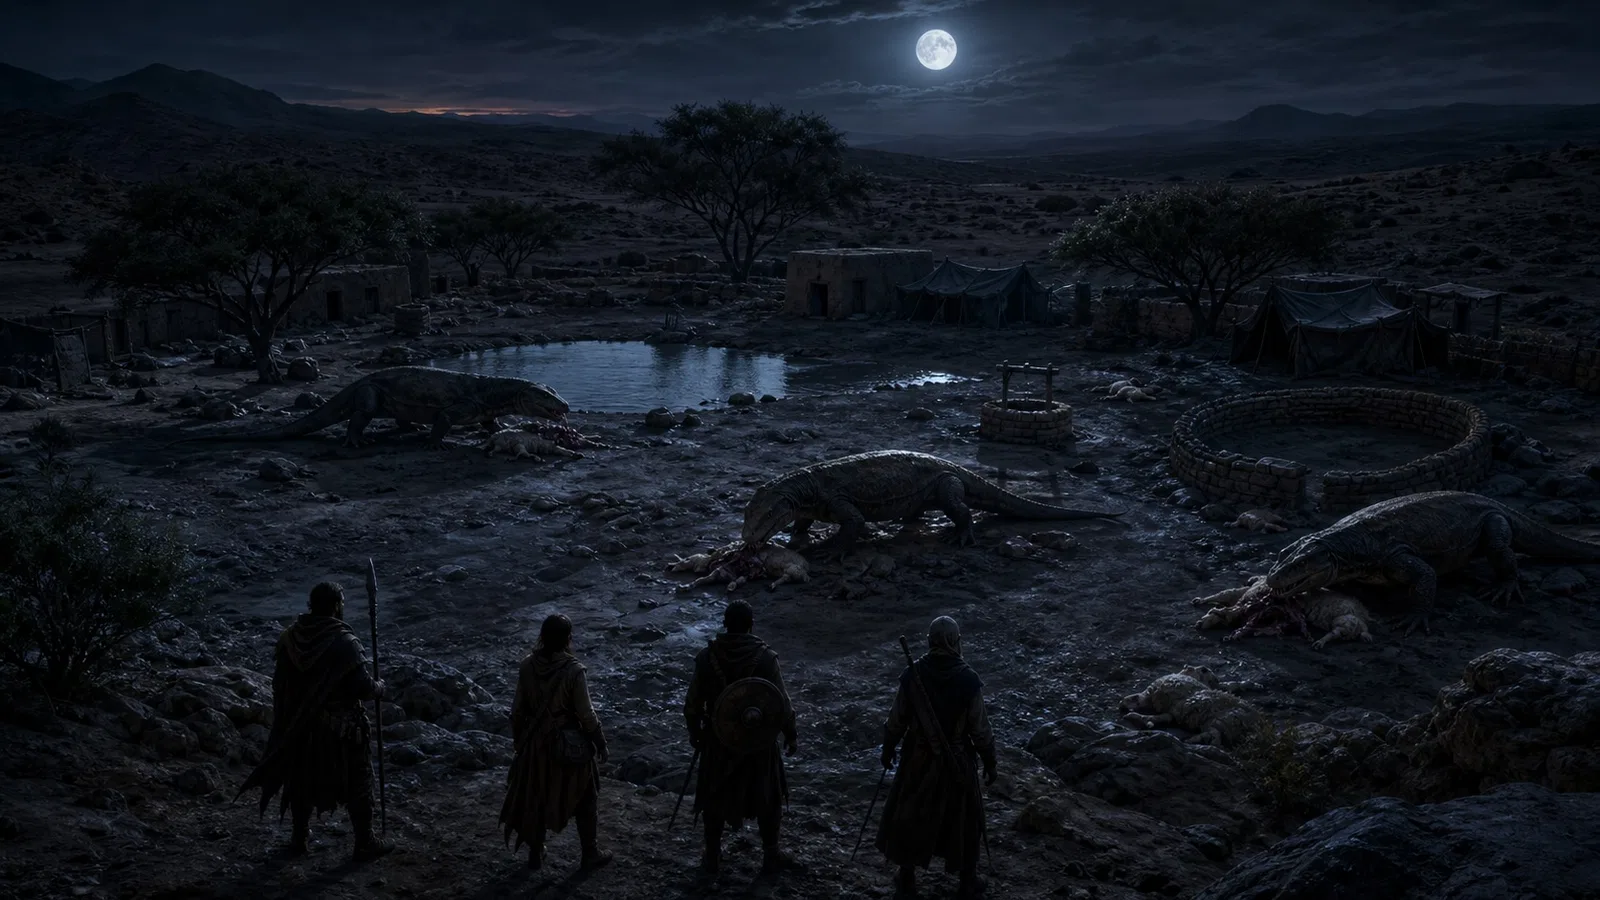
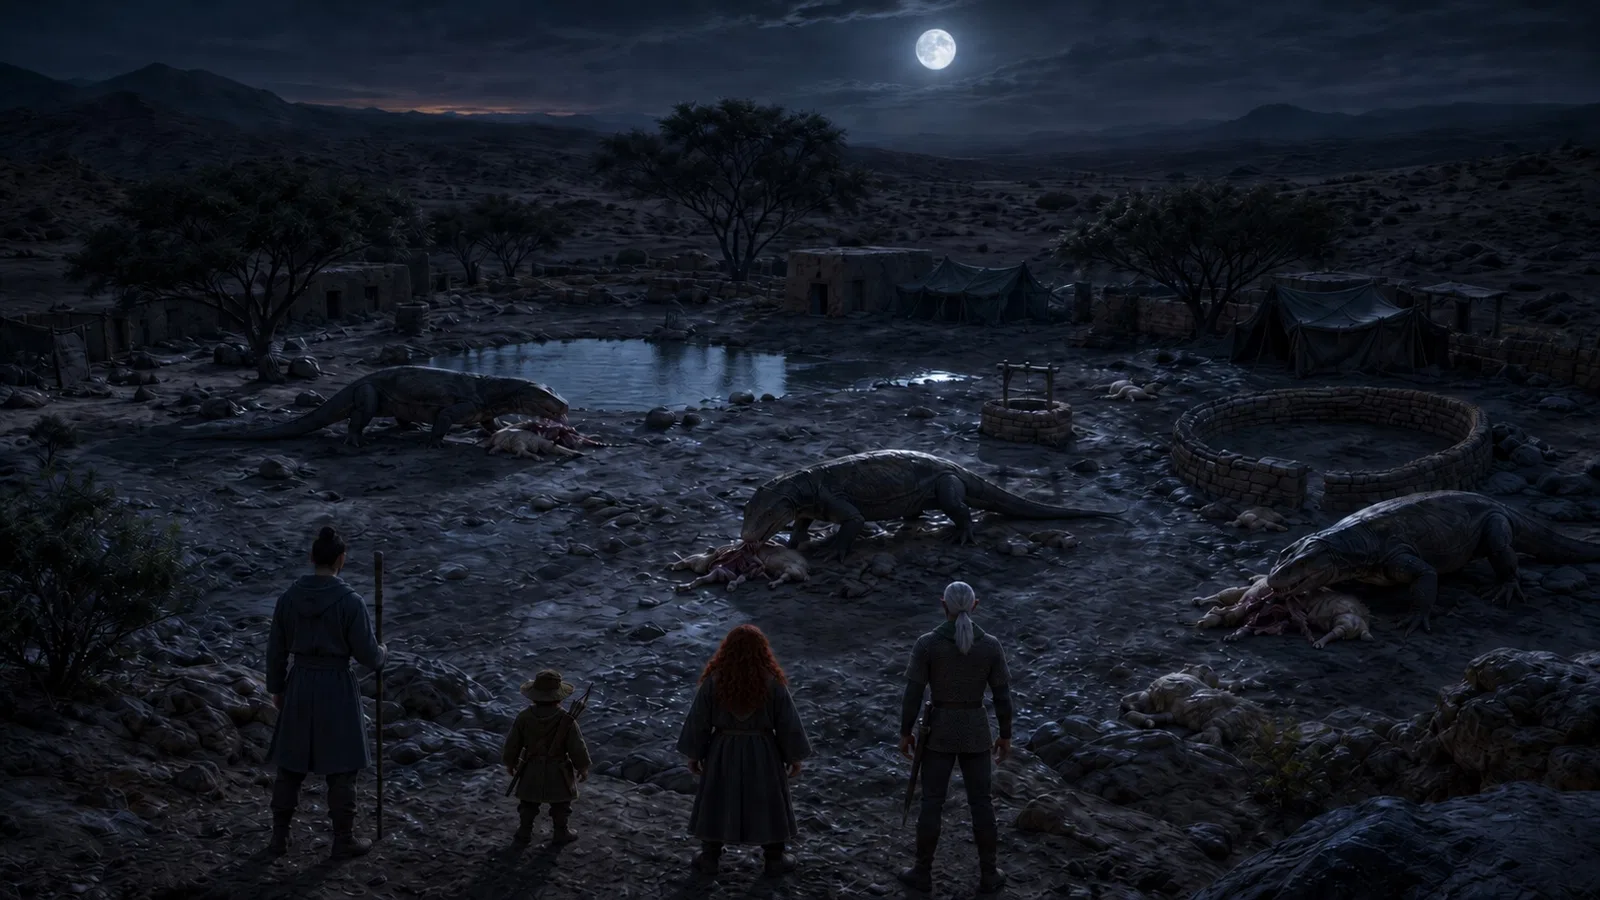
autobuild

diff --git a/docs/campaigns/dragonets/the-shared-vision-of-home.md b/docs/campaigns/dragonets/the-shared-vision-of-home.md
@@ -1,6 +1,6 @@
 ---
 headerVersion: 2023.11.25
-tags: [source]
+tags: [source, status/check/ai]
 campaign: Dragonets
 name: The Shared Vision of Home
 POV: undated
@@ -14,11 +14,7 @@ title: The Shared Vision of Home
 
 **DM:** As you all hug the egg, the patterns on the egg begin to glow, and all of you experience, again, this… it's hard to describe it other than, like, the most sacred experience you've ever had in your lives. Like, this is, like, a very, very powerful, sacred moment.
 
-And as you touch it, the egg… begins to…
-
-**Zeno:** Whoa.
-
-**DM:** —glow. And light up. And these eight points of light start to appear across the egg, as all of you are touching it, holding it, and just feeling this deep, deep sense of being moved by this embrace of each other, but then also the embrace of the egg.
+And as you touch it, the egg begins to glow, and light up. Tthese eight points of light start to appear across the egg, as all of you are touching it, holding it, and just feeling this deep, deep sense of being moved by this embrace of each other, but then also the embrace of the egg.
 
 And as you touch it, and as it lights up, you feel also, in some weird way, that your consciousness is merging together. Like, you're hugging it as kind of four distinct entities, but the longer you hug it, the more that it feels like you're actually just one entity.
 
@@ -81,3 +77,49 @@ And as you now, who were once four dragonets, and then one dragonet, and then th
 And the four of you wake up. And you're lying on the ground next to this dragon egg, or next to this glowing egg.
 
 And all of the lights from the egg, as you wake up from this set of visions, slowly start to fade and darken. And the egg itself goes dark.
+
+## The Awakening
+
+**DM:** And as the egg goes dark, each of you starts to experience something different.
+
+### Little Tony
+
+**DM:** Little Tony? As you're lying there on your back, just however you can, processing whatever the fuck just happened, you start experiencing something, and this has been a day. Your normal shit, and then all of a sudden you can't hear everything, you can hear everything back again, like, what the hell's going on?
+
+You notice as you start to expand your consciousness out, because normally the palm is completely quiet, and it is quiet, and you expand your consciousness down to the wrist and down the arm, and your usual friends that you see along the way, they start talking to you like normal. But you feel, just like you did earlier, that suddenly you feel like you can tune it. You feel like you can talk to any rock that you want.
+
+You feel like any rock, you can tune it and turn this one off, turn that one off. And as you expand outwards, you realize, as you expand outward from beyond the Wanderer and the statue, that you can now talk and engage with every single object that you are scanning across the entire island, as far as you start going and expanding outwards.
+
+And it's ultra-fucking-high resolution, like, any object, I can talk to this one or not. I can listen to this one or not. You've never experienced anything even close to this magnitude. Crystal… perception and resolution.
+
+### Zeno
+
+**DM:** Zeno, as you're lying there and coming to, that perfect note that you heard in your head earlier, you start to hear in your head not just one note, but a chord. But not just a chord, even. It feels somehow like a set of notes combined together, playing something that's so resonant and beautiful, yes, to dragonets. But you realize that you can kind of assemble these notes into any pattern that you want.
+
+And you somehow have this sensation that the notes that you're arranging in your mind, they will be beautiful for the trees. They could be beautiful for the river, for the animals. Even, there feels like, for you, there's some combination of notes in your mind that the wind will love.
+
+And as you're kind of just playing with this, you also notice that each note… You thought that there was a note, but actually that note is made up of even more notes. It's like there are sub-tones within a tone.
+
+And you find that as you're making these compositions in your mind, the sub-tones create new layers and new density and complexity of music that you have never before imagined or thought of before in your mind. And somehow you can arrange it, and somehow you know that the notes and the chords that you're making are fucking sick. Whoever's gonna be listening to this is like, this is the most sacred shit they've ever heard in their lives.
+
+### Heska
+
+**DM:** Heska, as you're lying there and feeling, similarly to everybody else, what the fuck is going on?
+
+You notice in your body and in your being: you're a hunter, you're an acrobat, you've got incredible control over your body and what you can do. And yet somehow now it's almost as though every muscle in your body, you have some kind of precise control over. You are able to take the sinew of a muscle on your finger and activate it and control it with total perfection.
+
+The little strand of muscle on your leg below your knee, your hunting muscles, all of them are activated, again, with a precision and a power that you've never felt before.
+
+And you know how you felt when you killed that and hunted that king crab? How you felt on that day, and that was a perfect day, that was your perfect hunt? This feels like you could go and hunt a thousand of those crabs. This feels like you could find the most hidden, darkest, strongest beast in the ocean, and go hunt that shit. It's a level of power and confidence that you have never felt before.
+
+### Sculpit
+
+**DM:** And Mike, for Sculpit, as you're lying there, you, your whole life, have had this feeling around magic, and a feeling that there's certain ways in which you just couldn't control this. You want to be able to do something, but there's this wild energy that's flowing within you that you can't quite keep a lid on.
+
+But now for you, just like before, you were able to kind of teleport ten, twenty feet, you're feeling now as though all of that wildness is completely tamed. You have complete precision and control over how you want to move it. If you want it to go one foot, ten feet, thirty feet, fifty feet, it all feels completely easy. It all feels novice. Something that would be so simple for you to do.
+
+And so somehow you've been searching for this wildness to finally be tamed, and it is completely a slave to whatever you want.
+
+### The Power Fades
+
+**DM:** And as all of you are experiencing these things in your bodies, in your systems, for maybe a couple of minutes, they disappear. And they're gone.

diff --git a/docs/assets/pc-references/kenzo-early-campaign-reference.md b/docs/assets/pc-references/kenzo-early-campaign-reference.md
@@ -1,0 +1,57 @@
+---
+tags: [meta, status/check/ai]
+title: Kenzo Early Campaign Reference
+---
+# Kenzo — early-campaign character reference
+
+This set uses the portrait approved on September 18, 2026, for Kenzo's early-campaign appearance. Preserve this set separately from later-campaign appearances.
+
+## Reference images
+
+| Close portrait | Full body — front | Full body — rear |
+|---|---|---|
+| ![Kenzo Early Campaign Portrait](/taelgarverse/assets/pc-references/kenzo-early-campaign-portrait.webp) | ![Kenzo Early Campaign Full Body Front](/taelgarverse/assets/pc-references/kenzo-early-campaign-full-body-front.webp) | ![Kenzo Early Campaign Full Body Rear](/taelgarverse/assets/pc-references/kenzo-early-campaign-full-body-rear.webp) |
+
+All three images are **1254 × 1254 PNGs**, with opaque image content extending to every edge and no white side lines or borders.
+
+## Approved visual anchor
+
+- A young adult human man with a subtly thin, gently tapered face, healthy cheek softness, a softly defined jaw and rounded chin, lighter eyebrows, relaxed dark-brown eyes, and a small closed-mouth smile.
+- Clean-shaven, with warm natural skin and realistic skin texture.
+- Long black hair swept back into a high topknot, with a few fine loose strands.
+- A lithe, lean, strong athletic build, with balanced shoulders and understated natural muscle.
+- A plain dark slate-blue woven hooded robe, hood down, over a gray open-neck linen underlayer.
+- Warm mottled brown backdrop, soft portrait lighting, and a realistic photographic style.
+
+The user selected the younger portrait with lighter eyebrows, requested a closer resemblance to the supplied second facial reference, then approved the refinement with a subtly thinner face and a more lithe, strong build. That final approved portrait is the identity anchor for these views.
+
+## Full-body design
+
+The front view extends the selected portrait into a practical robe ending just below the knees, long sleeves, a matching blue cloth sash, plain charcoal trousers, and worn dark-brown leather ankle boots. The sash knot and hanging ends sit at Kenzo's left front waist. They remain mostly hidden from the rear; the down hood rests across the upper back.
+
+The robe length, sash, lower clothing, boots, and rear construction are visual interpretations made to complete the reference set. The rear view follows the generated front view for consistent proportions, clothing, and hair. Both full-body images use a relaxed neutral stance with empty hands so the outfit is visible. This does not imply that Kenzo never carries a staff.
+
+## Early transcript anchors
+
+### Athletic build and light travelling robe
+
+> Kenzo's human, uh, Dunmari, um, dark hair, uh, very, very fit looking, athletic, um, but also wearing just kind of loose traveler's outfits, um, light robe.
+
+Session 6 cleaned transcript, **u1539–u1540**, **01:24:12.568–01:24:26.568**.
+
+### Ordinary eye color
+
+> Yeah, no, they're normally, like, brown eyes, so.
+
+Session 6 cleaned transcript, **u3797**, **03:30:10.650–03:30:12.610**.
+
+This set keeps Kenzo's normal brown eyes. The brilliant blue eyes described later in that session are a distinct changed appearance and are not used here.
+
+## Provenance and verification
+
+Generated with the built-in image_gen tool. The close portrait removes the side strips and extends the approved image into the same square format as the other PC sets. The full-body front extends that approved identity and clothing; the rear uses the completed front and close portrait as references.
+
+The approved source portrait remains in the Taelgar Images project at `output/imagegen/topknot-refined-lithe-strong.png`. The generation prompts, source records, and verification results remain in that project under `generated/kenzo-early-campaign-character-reference-v1/` as `prompts.json`, `files.json`, and `verification.json`.
+
+All project copies match their generated sources by SHA-256. Each image is opaque and square. The outer 16-pixel bands on all four sides of every image were checked and contain zero near-white pixels.
+

diff --git a/docs/people/pcs/dunmar-fellowship/delwath.md b/docs/people/pcs/dunmar-fellowship/delwath.md
@@ -1,6 +1,6 @@
 ---
 headerVersion: 2023.11.25
-tags: [person, status/cleanup/image]
+tags: [person]
 campaignInfo:
 name: Delwath
 born: 1472
@@ -35,7 +35,12 @@ hide_toc: true
 
 
 
-![Delwath Portrait](/taelgarverse/assets/delwath-portrait.webp)
+!!! image taelgar-image taelgar-image--aside inline end taelgar-image--align-right taelgar-image--size-standard " "
+	![Delwath Intro Teahouse Threshold](/taelgarverse/assets/delwath-intro-teahouse-threshold.webp)
+	*Delwath in Karawa as our campaign begins.*
+
+
+
 
 ## Pre-Campaign Events
 

diff --git a/docs/people/pcs/dunmar-fellowship/kenzo.md b/docs/people/pcs/dunmar-fellowship/kenzo.md
@@ -25,8 +25,9 @@ hide_toc: true
 </div>
 
 
-![Kenzo Full](/taelgarverse/assets/kenzo-full.webp)
-
+!!! image taelgar-image taelgar-image--aside inline end taelgar-image--align-right taelgar-image--size-standard " "
+	![Kenzo Intro Desert Traveler](/taelgarverse/assets/kenzo-intro-desert-traveler.webp)
+	*Kenzo approaches Karawa as our campaign begins.*
 ## Pre-Campaign Events
 
 - Mar 11, 1748 DR: Kenzo leaves the Lakan Monastery at Tokra, heading for Karawa in search of answers about his dreams, and the jade fragment he carries.

diff --git a/docs/people/pcs/dunmar-fellowship/riswynn.md b/docs/people/pcs/dunmar-fellowship/riswynn.md
@@ -26,8 +26,9 @@ hide_toc: true
 </div>
 
 
-![Riswynn](/taelgarverse/assets/riswynn.png)
-
+!!! image taelgar-image taelgar-image--aside inline end taelgar-image--align-right taelgar-image--size-standard " "
+	![Riswynn Intro Ikrams Courtyard](/taelgarverse/assets/riswynn-intro-ikrams-courtyard.webp)
+	*Riswynn meets the Dunmar Fellowship at Ikram's.*
 ## Pre-Campaign Events
 - Mar 10, 1748 DR: Riswynn leaves Tharn Todar, heading north for Raven's Hold
 - Mar 24, 1748 DR: Riswynn leaves Askandi, heading for Karawa.

diff --git a/docs/people/pcs/dunmar-fellowship/wellby.md b/docs/people/pcs/dunmar-fellowship/wellby.md
@@ -27,8 +27,9 @@ hide_toc: true
 </div>
 
 
-![Welby Full](/taelgarverse/assets/welby-full.webp)
-
+!!! image taelgar-image taelgar-image--aside inline end taelgar-image--align-right taelgar-image--size-standard " "
+	![Wellby Outside Ikrams Dunmar Map](/taelgarverse/assets/wellby-outside-ikrams-dunmar-map.webp)
+	*Wellby and his maps.*
 ## Pre-Campaign Events
 
 - Aug 02, 1747 DR: Wellby leaves [Sembara](<../../../gazetteer/greater-sembara/sembara/sembara.md>), heading south. Spends some time wandering.

diff --git a/docs/people/pcs/dunmar-fellowship/seeker.md b/docs/people/pcs/dunmar-fellowship/seeker.md
@@ -25,7 +25,13 @@ hide_toc: true
 </div>
 
 
-![Seeker](/taelgarverse/assets/seeker.webp){align="right"; width="400"}
+!!! image taelgar-image taelgar-image--aside inline end taelgar-image--align-right taelgar-image--size-standard " "
+	![Seeker Writing Ikrams Courtyard V1](/taelgarverse/assets/seeker-writing-ikrams-courtyard-v1.webp)
+	*Seeker, writing in his notebook in Ikram's, as our campaign begins.*
+
+
+
+
 
 ## Pre-Campaign Events
 
